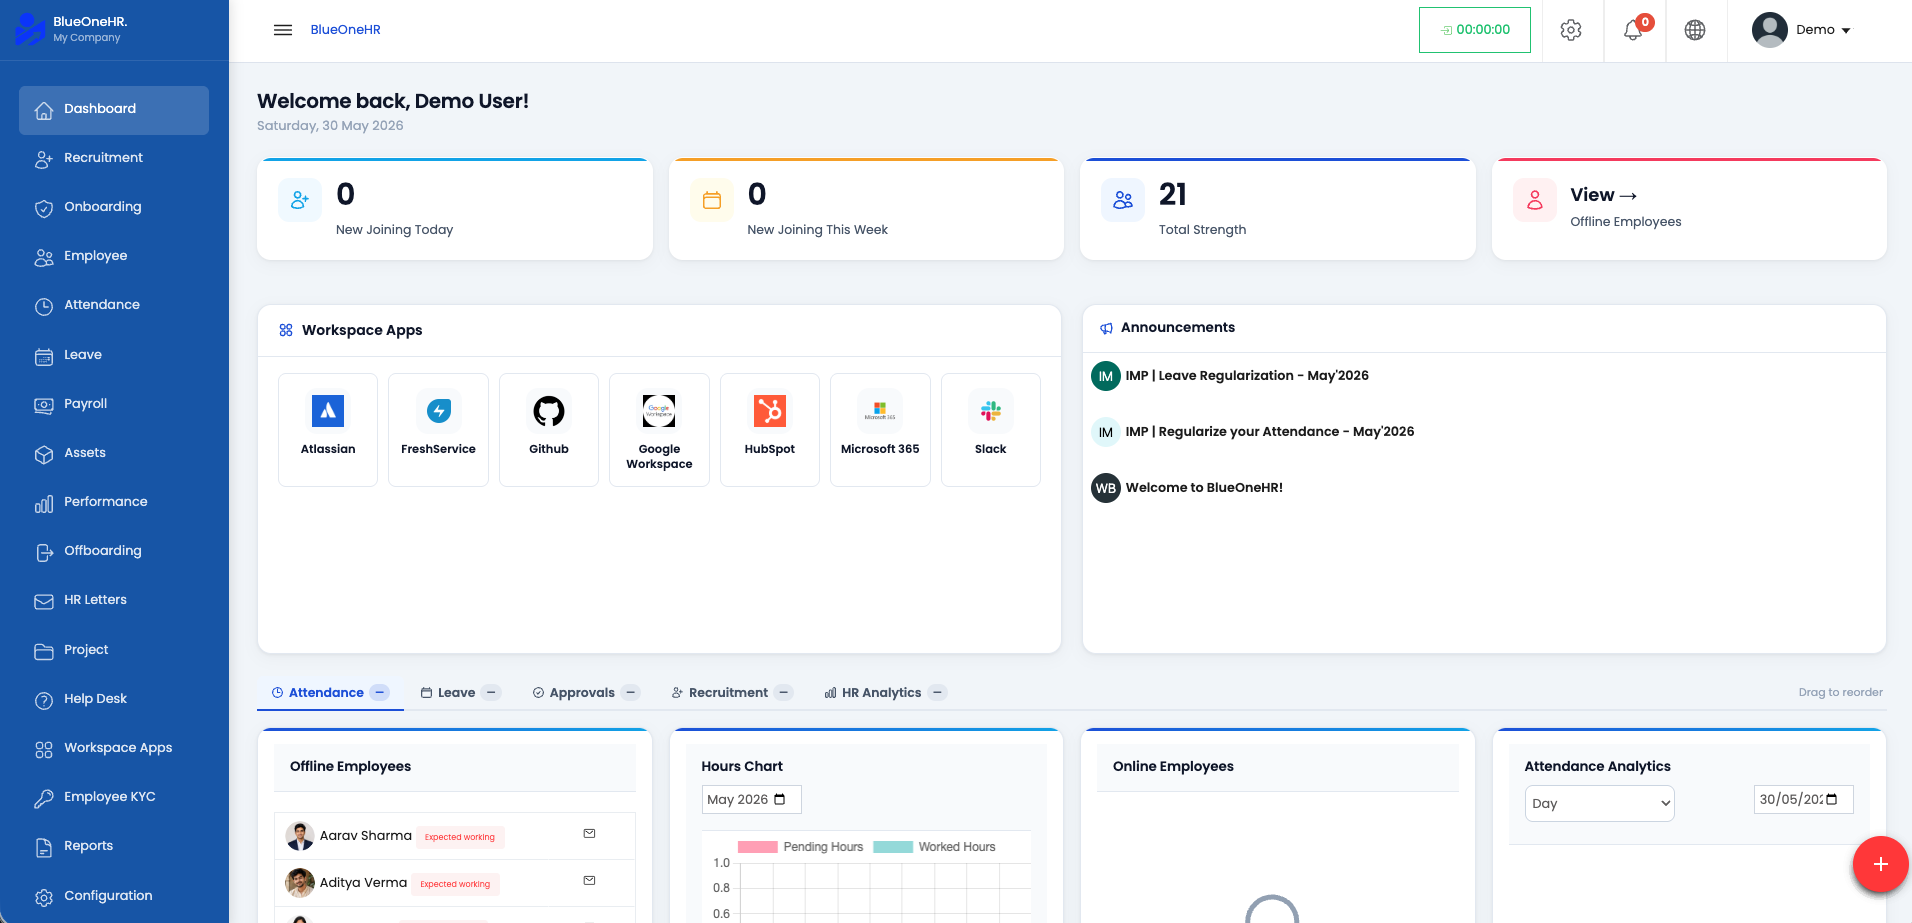
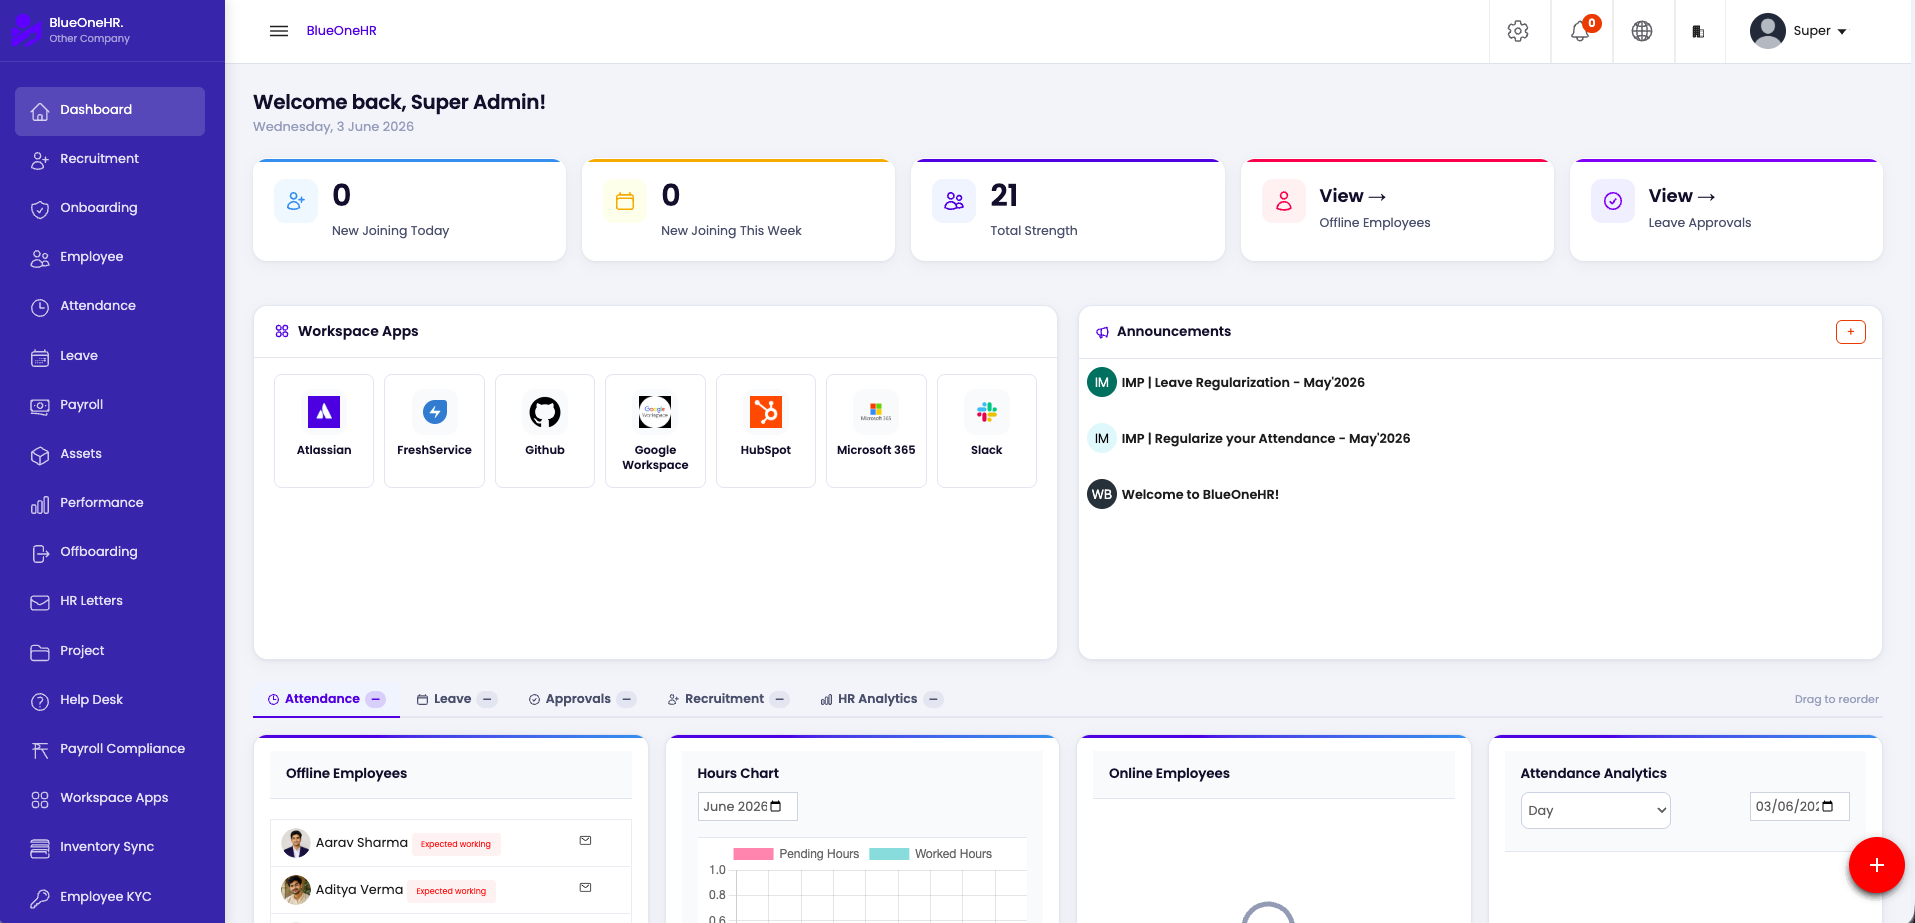
website: replace slideshow with 15 new screenshots

diff --git a/index.html b/index.html
@@ -206,13 +206,21 @@
          To remove: delete the corresponding line.
          ─────────────────────────────────────────────────────────────────── */
       const SLIDES = [
-        { src: 'assets/img/screenshots/1_dashboard.png',          label: '📊 Dashboard'            },
-        { src: 'assets/img/screenshots/2_employee_dashboard.png', label: '👥 Employee Dashboard'   },
-        { src: 'assets/img/screenshots/3_dashboard.png',          label: '📊 Dashboard — Overview' },
-        { src: 'assets/img/screenshots/4_dashboard_analytics.png',label: '📈 Dashboard Analytics'  },
-        { src: 'assets/img/screenshots/5_policies.png',           label: '📋 Policies'             },
-        { src: 'assets/img/screenshots/6_letters.png',            label: '📄 HR Letters'           },
-        { src: 'assets/img/screenshots/7_reports.png',            label: '📊 Reports'              },
+        { src: 'assets/img/screenshots/1_dashboard.png',                    label: '📊 Dashboard'              },
+        { src: 'assets/img/screenshots/2_recruitment-dashboard.png',        label: '🧑💼 Recruitment'             },
+        { src: 'assets/img/screenshots/3_employees.png',                    label: '👥 Employees'               },
+        { src: 'assets/img/screenshots/4_employee.png',                     label: '🪪 Employee Profile'        },
+        { src: 'assets/img/screenshots/5_attendance_dashboard.png',         label: '🕐 Attendance'              },
+        { src: 'assets/img/screenshots/6_leave_dashboard.png',              label: '🏖 Leave Management'        },
+        { src: 'assets/img/screenshots/7_payroll_dashboard.png',            label: '💰 Payroll'                 },
+        { src: 'assets/img/screenshots/8_assets_dashboard.png',             label: '💻 Asset Management'        },
+        { src: 'assets/img/screenshots/9_performance_dashboard.png',        label: '🎯 Performance'             },
+        { src: 'assets/img/screenshots/10_offboarding_dashboard.png',       label: '🚪 Offboarding'             },
+        { src: 'assets/img/screenshots/11_project_dashboard.png',           label: '📁 Projects'                },
+        { src: 'assets/img/screenshots/12_payroll_compliance_dashboard.png',label: '📑 Payroll Compliance'      },
+        { src: 'assets/img/screenshots/14_workspace_apps.png',              label: '🧩 Workspace Apps'          },
+        { src: 'assets/img/screenshots/15_inventory_sync.png',              label: '📦 Inventory Sync'          },
+        { src: 'assets/img/screenshots/16_reports.png',                     label: '📊 Reports'                 },
       ];
 
       const INTERVAL = 4500; // ms per slide
